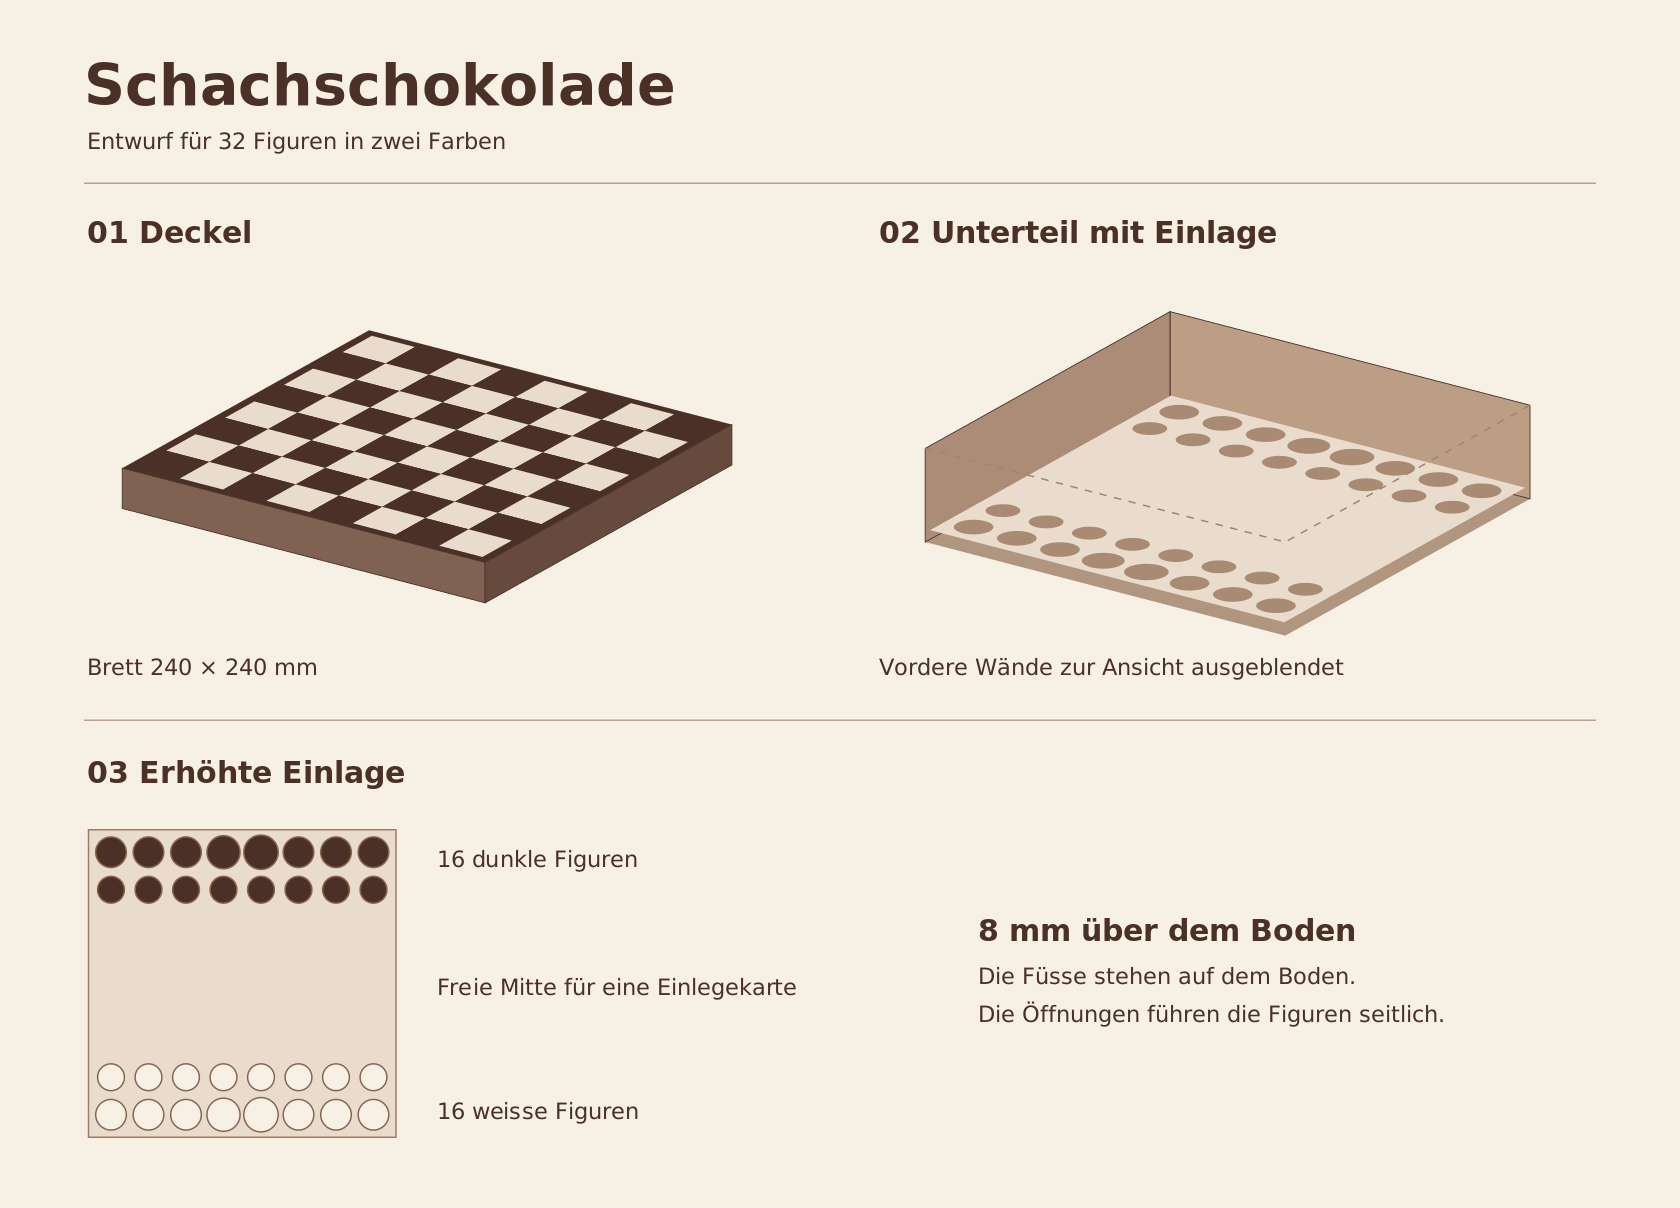
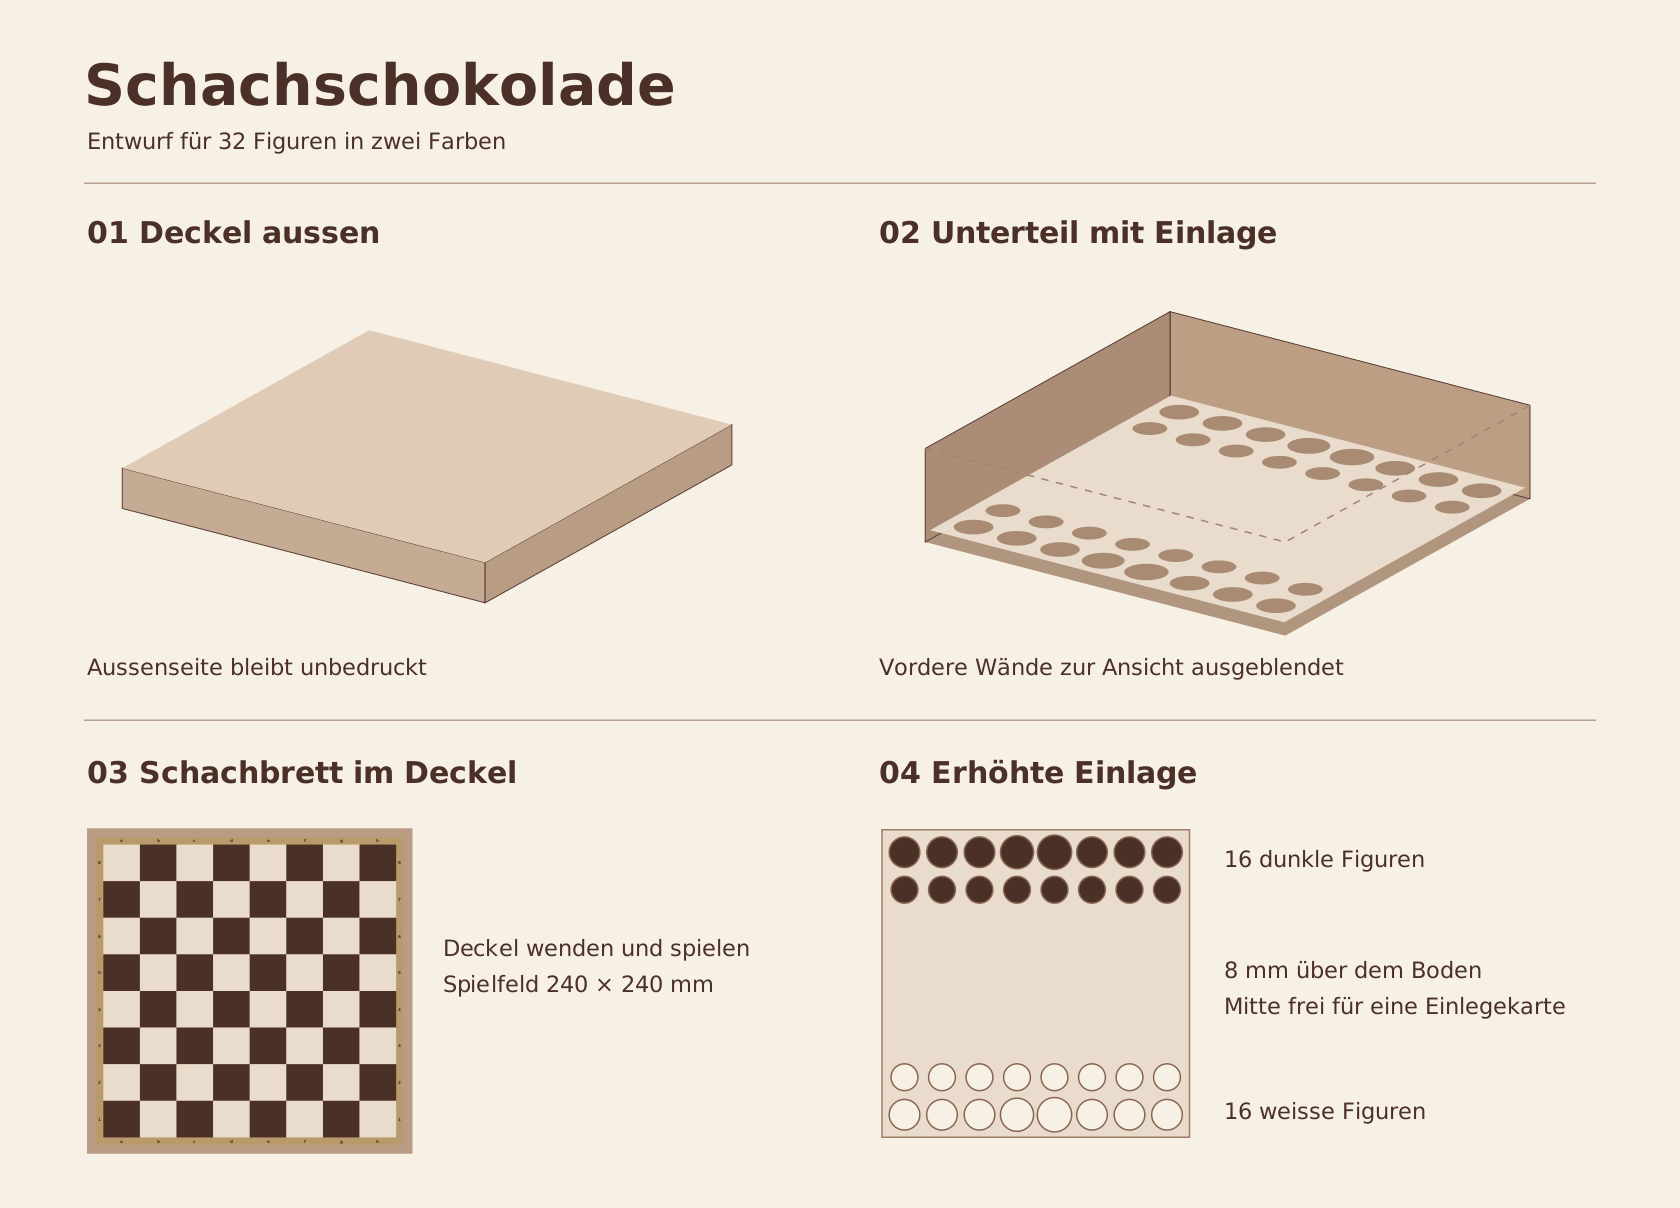
Schachbrett innen mit Koordinaten drucken

diff --git a/verpackung/generieren.py b/verpackung/generieren.py
@@ -34,6 +34,7 @@ KLEBUNG = "#3c795a"
 MASS = "#4d4d49"
 BRAUN = "#4b3027"
 CREME = "#e9dccc"
+BRETTRAND = "#b99a6a"
 WEISS = "#f7f0e5"
 
 GRUNDREIHE = ("Turm", "Springer", "Läufer", "Dame", "König", "Läufer", "Springer", "Turm")
@@ -63,8 +64,10 @@ def pruefe_masse():
     brett, boden, deckel, einlage, hoehe = masse()
     if min(FELD, DECKELSPIEL, EINLAGENSPIEL, KOPFSPIEL, ANSCHNITT, LOCHZUGABE) <= 0:
         raise ValueError("Feld, Spiele, Lochzugabe und Anschnitt müssen positiv sein.")
-    if not (deckel >= brett and 0 < DECKELTIEFE < hoehe and 0 < EINLAGENHOEHE < hoehe):
-        raise ValueError("Deckelrand, Deckeltiefe oder Einlagenhöhe prüfen.")
+    if (deckel - brett) / 2 < 3:
+        raise ValueError("Brettrand für die Koordinaten zu schmal.")
+    if not (0 < DECKELTIEFE < hoehe and 0 < EINLAGENHOEHE < hoehe):
+        raise ValueError("Deckeltiefe oder Einlagenhöhe prüfen.")
     if min(DECKELTIEFE, EINLAGENHOEHE, hoehe, KLEBELASCHE + 1) < 7:
         raise ValueError("Wände oder Klebelaschen für den Zuschnitt zu klein.")
     for figur, (h, fuss) in FIGUREN.items():
@@ -224,13 +227,23 @@ def felder():
             yield spalte * FELD, reihe * FELD, CREME if (reihe + spalte) % 2 == 0 else BRAUN
 
 
-def deckeldruck(brett, kante):
-    w = kante + 2 * ANSCHNITT
-    rand = (w - brett) / 2
-    inhalt = [element("rect", x=0, y=0, width=w, height=w, fill=BRAUN)]
-    inhalt.extend(element("rect", x=rand + x, y=rand + y, width=FELD, height=FELD, fill=farbe)
+def brettgrafik(brett, kante, anschnitt=0):
+    w = kante + 2 * anschnitt
+    rand = (kante - brett) / 2
+    start = anschnitt + rand
+    nah = anschnitt + rand / 2
+    fern = anschnitt + kante - rand / 2
+    schrift = min(3.4, rand * 0.65)
+    basis = schrift * 0.35
+    attrs = dict(fill=BRAUN, font_size=schrift, text_anchor="middle", font_weight="bold")
+    inhalt = [element("rect", x=0, y=0, width=w, height=w, fill=BRETTRAND)]
+    inhalt.extend(element("rect", x=start + x, y=start + y, width=FELD, height=FELD, fill=farbe)
                   for x, y, farbe in felder())
-    return svg(w, w, inhalt)
+    for i, spalte in enumerate("abcdefgh"):
+        mitte = start + (i + 0.5) * FELD
+        inhalt.extend(text(mitte, y + basis, spalte, **attrs) for y in (nah, fern))
+        inhalt.extend(text(x, mitte + basis, str(8 - i), **attrs) for x in (nah, fern))
+    return inhalt
 
 
 def vorschau(brett, boden, deckel, einlage, hoehe):
@@ -258,15 +271,12 @@ def vorschau(brett, boden, deckel, einlage, hoehe):
     titel(56, 70, "Schachschokolade", 38)
     info(58, 99, "Entwurf für 32 Figuren in zwei Farben")
     teile.append(linie(56, 122, 1064, 122, stroke="#b8a28f", stroke_width=1))
-    titel(58, 162, "01   Deckel")
+    titel(58, 162, "01   Deckel aussen")
     titel(586, 162, "02   Unterteil mit Einlage")
     p = projektion(246, 220, 0.96)
-    wand(p, (0, deckel), (deckel, deckel), 0, -DECKELTIEFE, "#806252")
-    wand(p, (deckel, 0), (deckel, deckel), 0, -DECKELTIEFE, "#674a3e")
-    ebene(p, 0, 0, deckel, 0, BRAUN)
-    rand = (deckel - brett) / 2
-    for x, y, farbe in felder():
-        ebene(p, rand + x, rand + y, FELD, 0, farbe)
+    wand(p, (0, deckel), (deckel, deckel), 0, -DECKELTIEFE, "#c5ab93")
+    wand(p, (deckel, 0), (deckel, deckel), 0, -DECKELTIEFE, "#b89c84")
+    ebene(p, 0, 0, deckel, 0, "#e0cbb7")
     p = projektion(780, 270, 0.96)
     ebene(p, 0, 0, boden, 0, "#b0957f")
     wand(p, (0, 0), (boden, 0), hoehe, 0, "#bc9e85")
@@ -281,22 +291,27 @@ def vorschau(brett, boden, deckel, einlage, hoehe):
                        stroke_width=1, stroke_dasharray="5 5"))
     teile.append(linie(*p(boden, 0, hoehe), *p(boden, boden, hoehe), stroke="#a08470",
                        stroke_width=1, stroke_dasharray="5 5"))
-    info(58, 450, f"Brett {mm(brett)} × {mm(brett)} mm")
+    info(58, 450, "Aussenseite bleibt unbedruckt")
     info(586, 450, "Vordere Wände zur Ansicht ausgeblendet")
     teile.append(linie(56, 480, 1064, 480, stroke="#b8a28f", stroke_width=1))
-    titel(58, 522, "03   Erhöhte Einlage")
+    titel(58, 522, "03   Schachbrett im Deckel")
+    teile.append(element("rect", x=58, y=552, width=217, height=217, fill="#b89c84"))
+    teile.append(f'<g transform="translate(64 558) scale({zahl(205 / deckel)})">')
+    teile.extend(brettgrafik(brett, deckel))
+    teile.append("</g>")
+    info(295, 637, "Deckel wenden und spielen")
+    info(295, 661, f"Spielfeld {mm(brett)} × {mm(brett)} mm")
+    titel(586, 522, "04   Erhöhte Einlage")
     k = 205 / einlage
-    teile.append(element("rect", x=59, y=553, width=205, height=205, fill=CREME,
+    teile.append(element("rect", x=588, y=553, width=205, height=205, fill=CREME,
                          stroke="#9e7d65", stroke_width=1))
     for farbe, _, x, y, d in loecher(einlage):
-        teile.append(element("circle", cx=59 + x * k, cy=553 + y * k, r=d * k / 2,
+        teile.append(element("circle", cx=588 + x * k, cy=553 + y * k, r=d * k / 2,
                              fill=BRAUN if farbe == "dunkel" else WEISS, stroke="#876551", stroke_width=1))
-    info(291, 578, "16 dunkle Figuren")
-    info(291, 663, "Freie Mitte für eine Einlegekarte")
-    info(291, 746, "16 weisse Figuren")
-    titel(652, 627, f"{mm(EINLAGENHOEHE)} mm über dem Boden")
-    info(652, 656, "Die Füsse stehen auf dem Boden.")
-    info(652, 681, "Die Öffnungen führen die Figuren seitlich.")
+    info(816, 578, "16 dunkle Figuren")
+    info(816, 652, f"{mm(EINLAGENHOEHE)} mm über dem Boden")
+    info(816, 676, "Mitte frei für eine Einlegekarte")
+    info(816, 746, "16 weisse Figuren")
     return svg(1120, 805, teile, raster=True)
 
 
@@ -323,8 +338,9 @@ def generieren(ziel):
         sammlung.add_page(pdf_blatt(inhalt))
     sammlung.write(ziel / "falzmuster.pdf")
 
-    druck = deckeldruck(brett, deckel)
-    schreibe_svg(ziel / "deckeldruck.svg", druck)
+    format_mit_anschnitt = deckel + 2 * ANSCHNITT
+    druck = svg(format_mit_anschnitt, format_mit_anschnitt, brettgrafik(brett, deckel, ANSCHNITT))
+    schreibe_svg(ziel / "brettdruck.svg", druck)
     blatt = pdf_blatt(druck)
     pts = 72 / 25.4
     anschnitt = ANSCHNITT * pts
@@ -333,7 +349,7 @@ def generieren(ziel):
     blatt.bleedbox = blatt.mediabox
     druck_pdf = PdfWriter()
     druck_pdf.add_page(blatt)
-    druck_pdf.write(ziel / "deckeldruck.pdf")
+    druck_pdf.write(ziel / "brettdruck.pdf")
     grafik = vorschau(brett, boden, deckel, einlage, hoehe)
     cairosvg.svg2png(bytestring=grafik.encode("utf-8"), write_to=str(ziel / "vorschau.png"),
                      output_width=1680, output_height=1208)

diff --git a/verpackung/test_generieren.py b/verpackung/test_generieren.py
@@ -33,15 +33,25 @@ class VerpackungTest(unittest.TestCase):
             einlage = ElementTree.parse(ziel / "einlage.svg")
             self.assertEqual(Counter(float(loch.attrib["r"]) * 2 for loch in einlage.iter(f"{SVG}circle")),
                              {27.5: 2, 26.5: 2, 24.5: 12, 21.5: 16})
-            druck = PdfReader(ziel / "deckeldruck.pdf").pages[0]
+            druck = PdfReader(ziel / "brettdruck.pdf").pages[0]
             self.assert_mm(druck.trimbox.width, 252)
             self.assert_mm(druck.trimbox.height, 252)
             self.assert_mm(druck.bleedbox.width, 258)
             self.assert_mm(druck.trimbox.left, 3)
-            felder = list(ElementTree.parse(ziel / "deckeldruck.svg").iter(f"{SVG}rect"))[1:]
+            brett = ElementTree.parse(ziel / "brettdruck.svg")
+            rand, *felder = brett.iter(f"{SVG}rect")
+            self.assertNotIn(rand.attrib["fill"], (g.CREME, g.BRAUN))
             self.assertEqual(len(felder), 64)
             self.assertEqual(felder[0].attrib["fill"], g.CREME)
             self.assertEqual(felder[-8].attrib["fill"], g.BRAUN)
+            koordinaten = list(brett.iter(f"{SVG}text"))
+            self.assertEqual(Counter(label.text for label in koordinaten),
+                             dict.fromkeys("abcdefgh12345678", 2))
+            spalten = {label.text: float(label.attrib["x"]) for label in koordinaten if label.text.isalpha()}
+            reihen = {label.text: float(label.attrib["y"]) for label in koordinaten if label.text.isdigit()}
+            self.assertEqual([spalten[zeichen] for zeichen in "abcdefgh"], list(range(24, 235, 30)))
+            for n in range(8, 0, -1):
+                self.assertAlmostEqual(reihen[str(n)] - reihen["8"], 30 * (8 - n))
 
     def test_raster_und_figuren_aendern(self):
         with patch.object(g, "FELD", 32), patch.dict(g.FIGUREN, {"König": (64, 27)}):

diff --git a/verpackung/README.md b/verpackung/README.md
@@ -2,16 +2,16 @@
 
 Prototyp für 32 massive Figuren, je 16 aus dunkler und weisser Schokolade. Nutzlast rund 260 g. Die vorläufigen Figurenmasse stammen aus [dem Figurenplan in PR #1](https://github.com/BitSparkCode/schach-schokolade/blob/devin/1795270432-plan-giessform/docs/03-figuren.md). Vor der Kleinserie am ersten Guss und am gewählten Karton nachmessen.
 
-![Vorschau von Deckel, Unterteil und erhöhter Einlage](vorlagen/vorschau.png)
+![Vorschau von Deckel aussen, Schachbrett innen, Unterteil und erhöhter Einlage](vorlagen/vorschau.png)
 
 ## Aufbau
 
 | Teil | Nennmasse ab Rillachse | Aufbau |
 |---|---:|---|
 | Unterteil | 250 × 250 × 65 mm | Vier aufgestellte Wände mit innen verklebten Ecklaschen. Die Höhe ergibt sich aus 60 mm für den König plus 5 mm Kopfspiel. |
-| Stülpdeckel | 252 × 252 × 28 mm | Abnehmbar, seitlich 1 mm Spiel pro Seite ab Rillachse. Zum Spielen abheben und mit dem Brett nach oben neben die Schachtel stellen. |
+| Stülpdeckel | 252 × 252 × 28 mm | Abnehmbar, seitlich 1 mm Spiel pro Seite ab Rillachse. Die Aussenseite bleibt vorerst unbedruckt. Zum Spielen Deckel abheben und wenden, damit die Innenseite mit dem Brett oben liegt. |
 | Einlage | 246 × 246 × 8 mm | Vier nach unten gefalzte Stützwände, mit Ecklaschen verklebt. Die Platte sitzt 8 mm über dem Boden und hat nominell 2 mm Abstand pro Seite ab Rillachse. |
-| Schachbrett | 240 × 240 mm | 8 × 8 Felder zu 30 mm, 6 mm Rand bis zur Deckelrille, helles Feld rechts unten. |
+| Schachbrett | 240 × 240 mm | 8 × 8 Felder zu 30 mm in Kakaobraun und Creme. 6 mm Rand in mattem Ocker bis zur Deckelrille, mit a bis h oben und unten und 1 bis 8 auf beiden Seiten. Links unten ist a1 dunkel, rechts unten h1 hell. |
 
 Vier Reihen zu acht Plätzen nutzen den Platz an zwei gegenüberliegenden Seiten. Aussen liegen die Grundreihen, innen die Bauern. So lassen sich die Farben getrennt einpacken und die Figuren abzählen. Die Mitte bleibt frei, zum Beispiel für eine flache Anleitung mit der Schachaufstellung. Am engsten Punkt zwischen den Löchern für König und Dame bleiben 3 mm Kartonsteg.
 
@@ -21,8 +21,9 @@ Die einzeln umhüllten Figuren werden mit dem Fuss voran von oben durch die Öff
 
 - Prototyp: glatter Faltschachtelkarton aus Frischfasern, etwa 400 bis 500 g/m² für Unterteil und Deckel; für die Einlage als Startbereich 350 bis 450 g/m². Die tatsächliche Dicke, Steifigkeit und der Faserlauf zählen für die Passung. Eine weiche Rille oder eine angepasste Rillnut verhindert Bruch beim Falzen.
 - Für befüllte Schachteln: jede Figur mit einer dafür ausgewiesenen, fettbeständigen Lebensmittelhülle schützen, etwa geeignetem Pergamin oder einer geeigneten Folie. Beim Lieferanten die Eignung für fetthaltige Schokolade, die vorgesehene Lagerdauer und Temperatur schriftlich bestätigen lassen. Falls ein ungeschützter Kontakt vorgesehen ist, vorab auch Karton, Schnittkanten und allfällige Einlagen nach Schweizer Vorgaben für den vorgesehenen Kontakt beurteilen lassen. Frischfaser allein ist kein Nachweis.
-- Druck nur aussen, Klebstoff in den Eckverbindungen ohne frei liegende Klebstoffreste. Für die Serie geeignete, migrationsarme Farben und Klebstoffe mit der Druckerei abstimmen; auch Abklatsch im Druckbogenstapel und Geruch am fertigen Muster prüfen. Zutaten, Allergene und weitere Pflichtangaben bei Abgabe oder Verkauf separat klären.
-- Deckeldruck in Kakaobraun und Creme, ohne Veredelung. Der Entwurf deckt nur die Oberseite ab; die Seiten bleiben im Kartonton. Für den Prototyp den Druck separat ausgeben, auf 252 × 252 mm beschneiden und bündig auf den Deckel kaschieren. Für den Direktdruck das Motiv auf dem Stanzbogen an den Rillachsen ausrichten und den Übergang zu den Seiten mit der Druckerei festlegen. PDF ist eine RGB-Vektordatei mit TrimBox und 3 mm Anschnitt rundum, kein PDF/X. Für die Auflage das gewünschte Farbprofil und Format vereinbaren und einen Farbabzug freigeben.
+- Brettdruck nur auf der Deckelinnenseite, ohne Veredelung. Bis die bedruckte Oberfläche für direkten Kontakt mit Schokolade geprüft und freigegeben ist, Figuren auch beim Spielen in ihren Hüllen lassen. Für die Serie geeignete, migrationsarme Farben und Klebstoffe mit der Druckerei abstimmen; auch Abklatsch im Druckbogenstapel und Geruch am fertigen Muster prüfen. Keine frei liegenden Klebstoffreste. Zutaten, Allergene und weitere Pflichtangaben bei Abgabe oder Verkauf separat klären.
+- Für den Prototyp den Brettdruck bei 100 % ausgeben, mittig auf die gemessene lichte Deckelfläche zuschneiden und innen kaschieren. Feldgrösse nicht skalieren; prüfen, ob der Zuschnitt alle Koordinaten stehen lässt. Beim Direktdruck das Motiv auf der Innenseite des Stanzbogens an den Rillachsen ausrichten. Das Motiv zeigt die spätere Draufsicht auf die Innenseite und wird nicht gespiegelt. Das PDF ist eine RGB-Vektordatei mit TrimBox und 3 mm Anschnitt rundum, kein PDF/X. Für die Auflage Farbprofil und Format vereinbaren und einen Farbabzug freigeben.
+- Die Deckelaussenseite bleibt im Kartonton, bis Maximilian seine Idee für den individuellen Druck vorlegt. Dafür gibt es noch keine Druckdatei.
 
 ## Dateien und Herstellung
 
@@ -30,8 +31,8 @@ Die einzeln umhüllten Figuren werden mit dem Fuss voran von oben durch die Öff
 |---|---|
 | [Falzmuster als PDF](vorlagen/falzmuster.pdf) | Drei Seiten in Originalgrösse: Unterteil, Deckel und Einlage. |
 | [Unterteil](vorlagen/unterteil.svg), [Deckel](vorlagen/deckel.svg), [Einlage](vorlagen/einlage.svg) | SVG in 1:1 mit Bemassung. Rot durchgezogen: Schnitt. Blau gestrichelt: Talfalz, blau strichpunktiert: Bergfalz. Grün gepunktet: Klebefläche. |
-| [Deckeldruck als PDF](vorlagen/deckeldruck.pdf), [SVG](vorlagen/deckeldruck.svg) | Endformat 252 × 252 mm, mit Anschnitt 258 × 258 mm. |
-| [Vorschau als PNG](vorlagen/vorschau.png) | Ansicht des Deckels, des Unterteils und der Einlage. Nicht massstäblich drucken. |
+| [Brettdruck innen als PDF](vorlagen/brettdruck.pdf), [SVG](vorlagen/brettdruck.svg) | Nennformat bis zur Rillachse 252 × 252 mm, mit Anschnitt 258 × 258 mm. |
+| [Vorschau als PNG](vorlagen/vorschau.png) | Unbedruckter Deckel aussen, Brett innen, Unterteil und Einlage. Nicht massstäblich drucken. |
 
 1. Bei 100 % drucken, ohne Seitenanpassung. Die 50-mm-Kontrollstrecke auf jedem Falzmuster messen. Die PDF-Seiten messen in der Reihenfolge 414 × 451 mm, 342 × 379 mm und 296 × 353 mm. Unterteil und Deckel auf A2 drucken, sofern der bedruckbare Bereich reicht, sonst auf breiterem Papier oder gekachelt bei 100 %. Die Einlage passt nur bei genügend Druckbreite auf A3. Die Zuschnitte ohne Bemassung messen 380 × 380 mm, 308 × 308 mm und 262 × 262 mm.
 2. Für das Einzelmuster mit Rillwerkzeug, Messer und Lochschneider arbeiten oder auf einem Flachbettplotter schneiden und rillen. Im Plotter nur rote Konturen als Schnitt und blaue Linien als Rillung zuweisen, nicht die Bemassung oder Klebemarkierungen. Die blauen Pfade durchgehend rillen, auch wenn sie in der Zeichnung gestrichelt sind.
@@ -59,3 +60,4 @@ CairoSVG benötigt Cairo auf dem System; für vergleichbare Schriften DejaVu San
 2. Reicht eine aufrechte Übergabe oder braucht es eine Versandsicherung? Braucht die Einlage bei der gewählten Kartonstärke eine Stütze in der Mitte?
 3. Wie viele Sets werden benötigt und wer übernimmt Plotten oder Stanzen sowie die Druckfreigabe?
 4. Welche geeignete Einzelhülle und welcher Karton sind erhältlich? Soll das Brett separat aufkaschiert oder direkt gedruckt werden?
+5. Welches Motiv möchte Maximilian später auf die Deckelaussenseite drucken?
